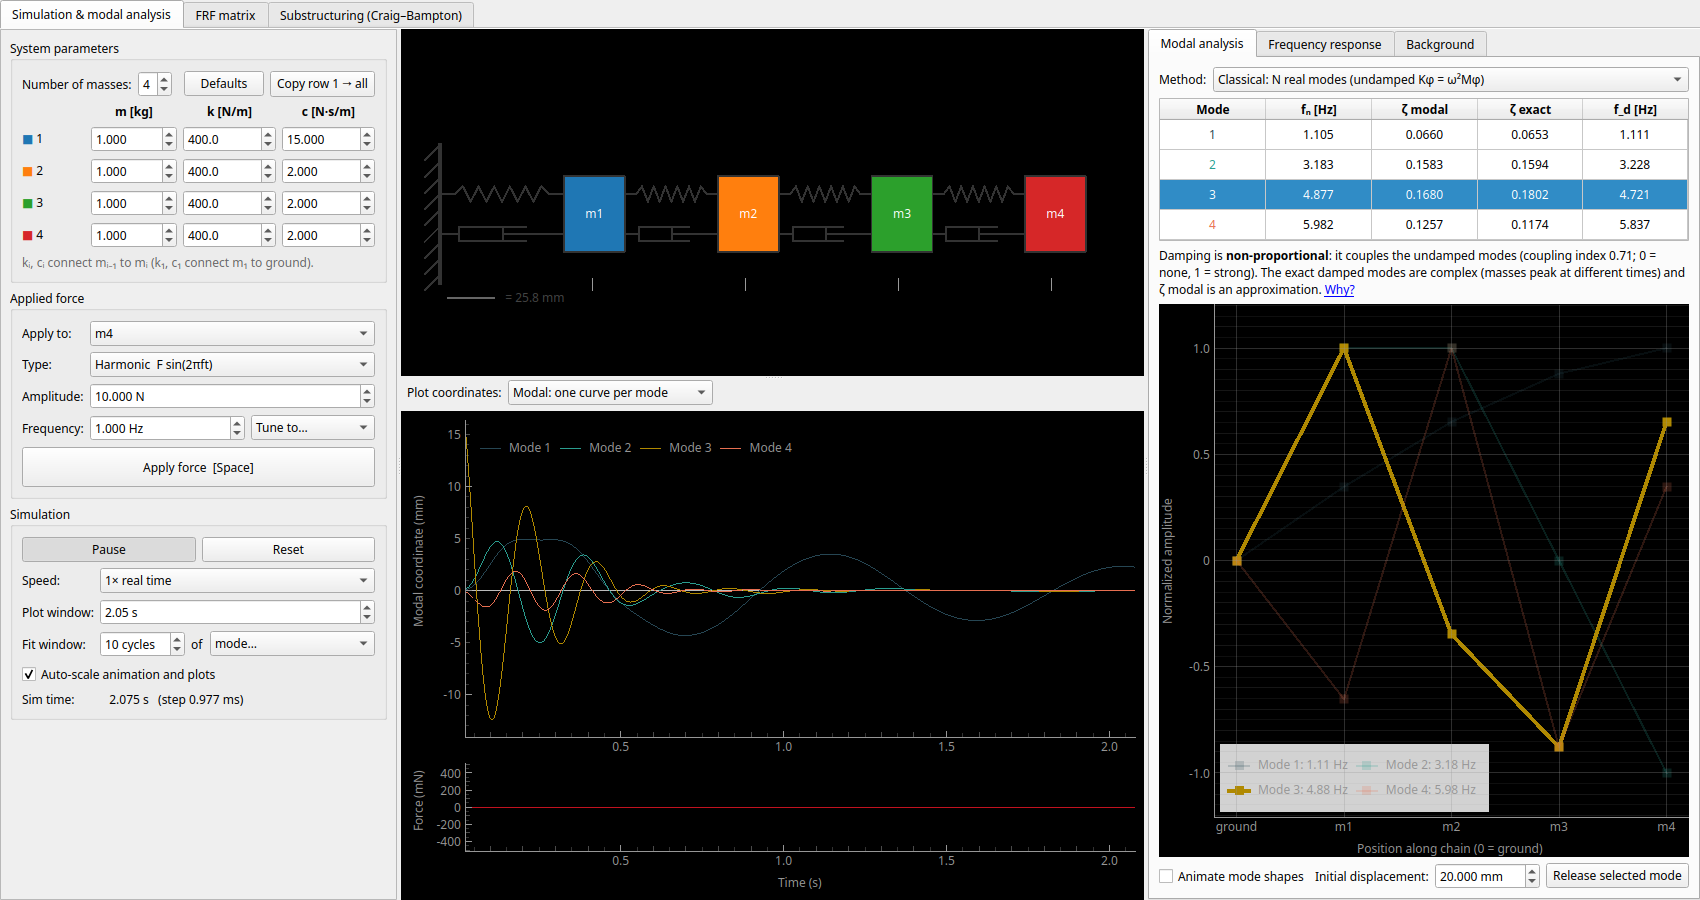
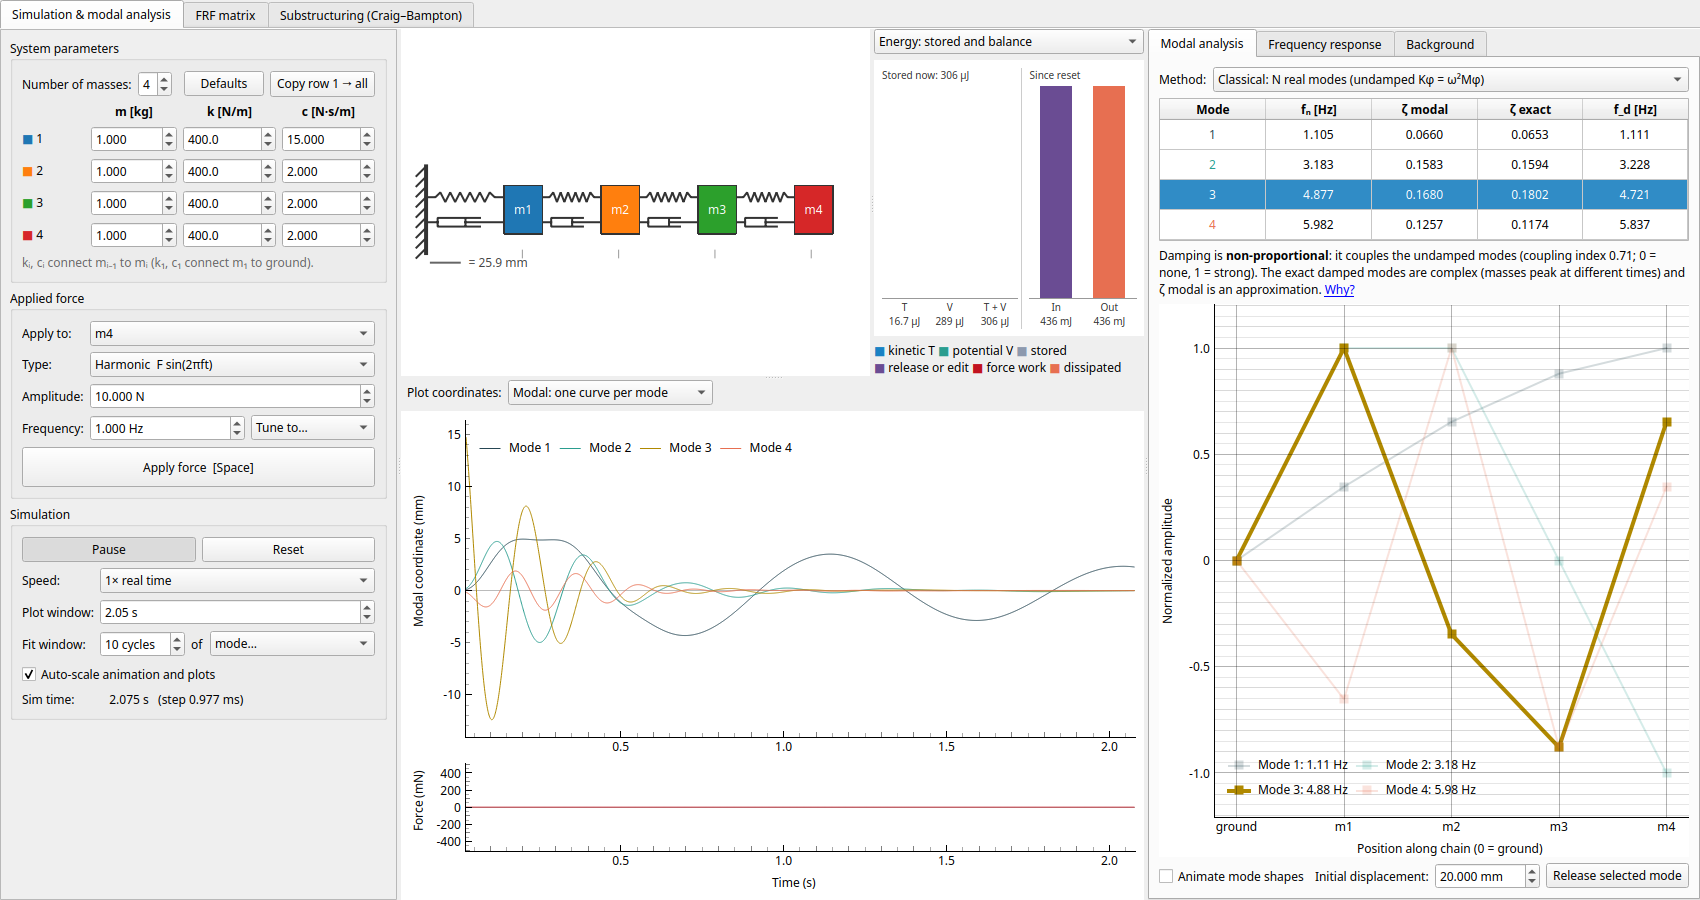
README: retake the modal-coordinates screenshot with the app's white theme
The screenshot was grabbed without the pyqtgraph options gui.run() sets, so
its plots had pyqtgraph's default black background. CLAUDE.md now says to set
them when grabbing screenshots.

Claude-Session: https://claude.ai/code/session_017R5NSXURS9H71mvfW1Frcg

diff --git a/CLAUDE.md b/CLAUDE.md
@@ -8,4 +8,4 @@ Real-time teaching app for an N-mass spring-damper chain (PySide6 + pyqtgraph + 
 - Units are SI throughout (kg, N/m, N·s/m, m, N, Hz in UI / rad/s internally where named `omega`).
 - The simulator uses an exact FOH matrix-exponential discretization. Don't replace it with an explicit integrator, because stiff user inputs must stay stable.
 - `Simulator.advance` caps the number of steps per call (`MAX_STEPS_PER_ADVANCE`). Loop over it for long runs in tests.
-- To check UI changes, grab a screenshot offscreen: build `MainWindow`, run the event loop briefly, then `window.grab().save(path)`.
+- To check UI changes, grab a screenshot offscreen: build `MainWindow`, run the event loop briefly, then `window.grab().save(path)`. First call `pg.setConfigOptions(antialias=True, background="w", foreground="k")` as `gui.run()` does; otherwise pyqtgraph's default black background makes the screenshot unlike the real app.
